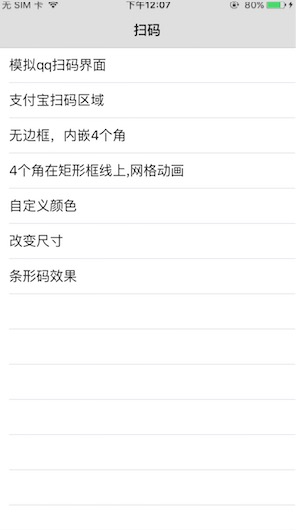
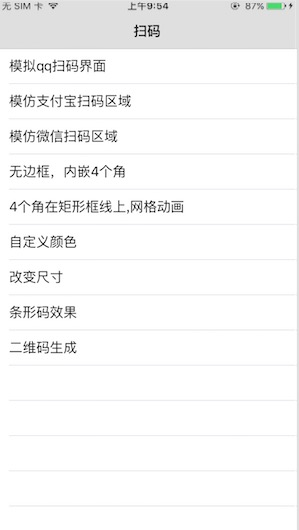
修改我的二维码界面

diff --git a/DemoTests/LBXScanDemo/MyQRViewController.m b/DemoTests/LBXScanDemo/MyQRViewController.m
@@ -33,25 +33,27 @@
     [super viewDidAppear:animated];
     
     UIButton *btn1 = [[UIButton alloc]initWithFrame:CGRectMake(20, 20, 80, 40)];
-    [btn1 setTitle:@"test1" forState:UIControlStateNormal];
+    [btn1 setTitle:@"logo" forState:UIControlStateNormal];
     [btn1 setTitleColor:[UIColor blueColor] forState:UIControlStateNormal];
     [btn1 addTarget:self action:@selector(createQR1) forControlEvents:UIControlEventTouchUpInside];
     
     UIButton *btn2 = [[UIButton alloc]initWithFrame:CGRectMake(110, 20, 80, 40)];
-    [btn2 setTitle:@"test2" forState:UIControlStateNormal];
+    [btn2 setTitle:@"上色" forState:UIControlStateNormal];
     [btn2 setTitleColor:[UIColor blueColor] forState:UIControlStateNormal];
     [btn2 addTarget:self action:@selector(createQR2) forControlEvents:UIControlEventTouchUpInside];
     
     
-    UIButton *btn3 = [[UIButton alloc]initWithFrame:CGRectMake(210, 20, 80, 40)];
+    UIButton *btn3 = [[UIButton alloc]initWithFrame:CGRectMake(210, 20, 110, 40)];
     
-    [btn3 setTitle:@"test3" forState:UIControlStateNormal];
+    [btn3 setTitle:@"背景前景颜色" forState:UIControlStateNormal];
     [btn3 setTitleColor:[UIColor blueColor] forState:UIControlStateNormal];
     [btn3 addTarget:self action:@selector(createQR3) forControlEvents:UIControlEventTouchUpInside];
     
     btn1.backgroundColor = [UIColor lightGrayColor];
     btn2.backgroundColor = [UIColor lightGrayColor];
     btn3.backgroundColor = [UIColor lightGrayColor];
+    
+    btn1.titleLabel.font = [UIFont systemFontOfSize:12.];
     
     [self.view addSubview:btn1];
     [self.view addSubview:btn2];
@@ -73,32 +75,33 @@
     [view addSubview:_imgView];
   
     
-    [self createQR2];
+    [self createQR1];
     
 }
 
 - (void)createQR1
 {
      UIImage *qrImg = [LBXScanWrapper createQRWithString:@"lbxia20091227@foxmail.com" size:_imgView.bounds.size];
+    
     UIImage *logoImg = [UIImage imageNamed:@"logo.JPG"];
     _imgView.image = [LBXScanWrapper addImageLogo:qrImg centerLogoImage:logoImg logoSize:CGSizeMake(30, 30)];
-    
     
 }
 
 - (void)createQR2
 {
     UIImage *image = [LBXScanWrapper createQRWithString:@"lbxia20091227@foxmail.com" size:_imgView.bounds.size];
-    //上色
-    _imgView.image = [LBXScanWrapper imageBlackToTransparent:image withRed:60.0f andGreen:74.0f andBlue:89.0f];
+    //二维码上色
+    _imgView.image = [LBXScanWrapper imageBlackToTransparent:image withRed:255.0f andGreen:74.0f andBlue:89.0f];
     
 }
 
 - (void)createQR3
 {
-   
-    _imgView.image = [LBXScanWrapper createQRWithString:@"lbxia20091227@foxmail.com" QRSize:_imgView.bounds.size QRColor:[UIColor colorWithRed:120./255. green:84./255. blue:40./255 alpha:1.0] bkColor:[UIColor colorWithRed:41./255. green:130./255. blue:45./255. alpha:1.0]];
-    
+    _imgView.image = [LBXScanWrapper createQRWithString:@"lbxia20091227@foxmail.com"
+                                                 QRSize:_imgView.bounds.size
+                                                QRColor:[UIColor colorWithRed:120./255. green:84./255. blue:40./255 alpha:1.0]
+                                                bkColor:[UIColor colorWithRed:41./255. green:130./255. blue:45./255. alpha:1.0]];
 }
 
 

diff --git a/README.md b/README.md
@@ -23,6 +23,7 @@ screenshots:
 
 ![image](https://github.com/MxABC/LBXScan/blob/master/ScreenShots/page1.png)
 ![image](https://github.com/MxABC/LBXScan/blob/master/ScreenShots/page2.png)
+![image](https://github.com/MxABC/LBXScan/blob/master/ScreenShots/page11.png)
 ![image](https://github.com/MxABC/LBXScan/blob/master/ScreenShots/page3.png)
 ![image](https://github.com/MxABC/LBXScan/blob/master/ScreenShots/page4.png)
 ![image](https://github.com/MxABC/LBXScan/blob/master/ScreenShots/page5.png)
